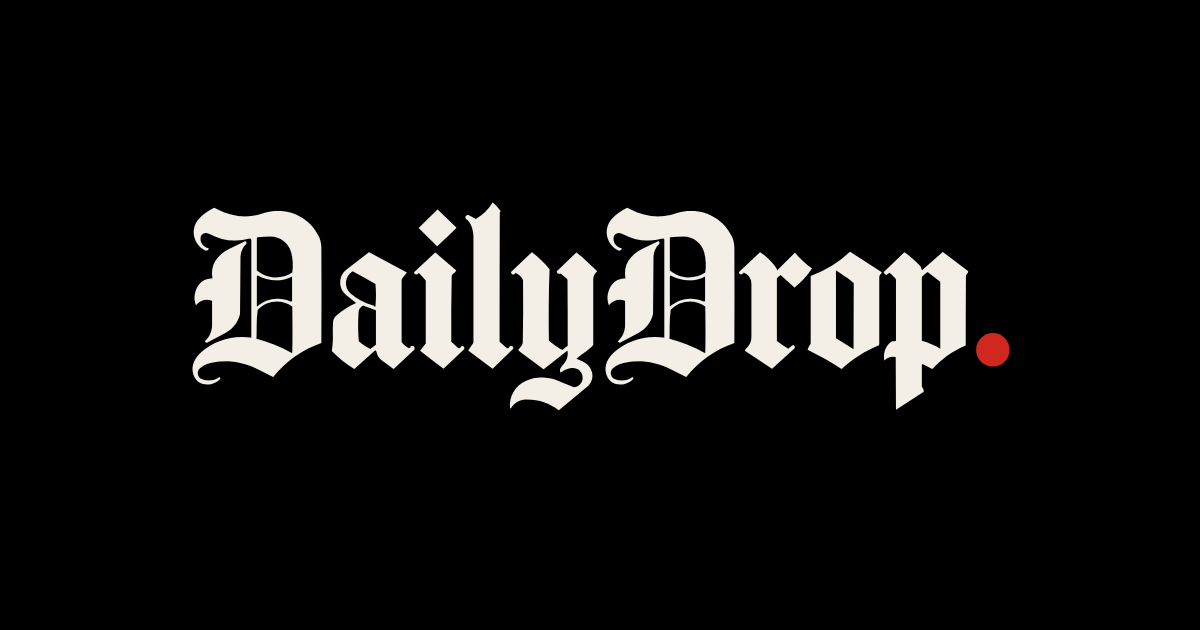
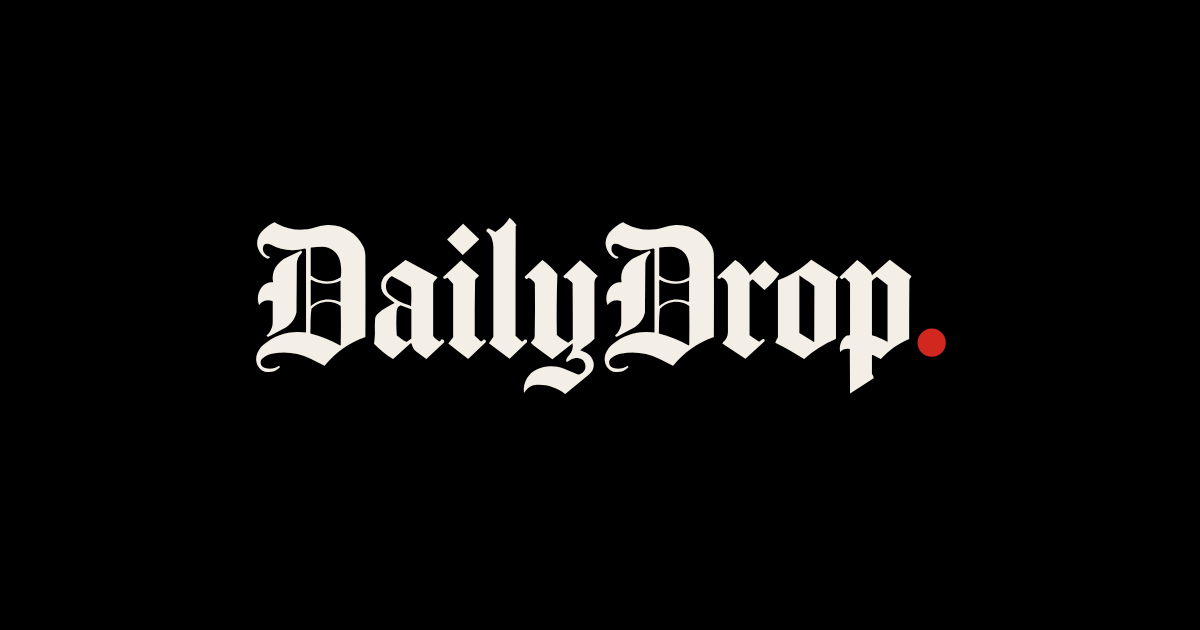
미리보기 이미지: 로고 폭 약 58%·가운데 띠 안, og:image 크기 태그(?v=5)
Claude-Session: https://claude.ai/code/session_01194J6eRjYk7y2N2oQRv7WX

Changed region(s): [[0.1542, 0.3317, 0.8633, 0.6635]]

diff --git a/site/build.js b/site/build.js
@@ -176,7 +176,7 @@ const TEXTSCALE = `<script>(function(){try{var m=localStorage.getItem('dd_theme'
 const PAPERBG = `<style>html{background:#ece4d8}body{min-height:100vh;min-height:100dvh}@media(prefers-color-scheme:dark){html:not([data-theme="light"]){background:#14130f}}html[data-theme="dark"]{background:#14130f}</style><link rel="preconnect" href="https://fonts.googleapis.com"><link rel="preconnect" href="https://fonts.gstatic.com" crossorigin><script>(function(){var done={};function pf(u){if(!u||u.indexOf("/")!==0)return;u=u.split("?")[0].split("#")[0];if(done[u])return;done[u]=1;var l=document.createElement("link");l.rel="prefetch";l.href=u;document.head.appendChild(l)}document.addEventListener("toggle",function(e){var d=e.target;if(d&&d.open&&d.classList&&(d.classList.contains("dd-ed")||d.classList.contains("dd-lang")))d.querySelectorAll("a[href]").forEach(function(a){pf(a.getAttribute("href"))})},true);document.addEventListener("pointerdown",function(e){var a=e.target.closest&&e.target.closest(".dd-ed a[href],.dd-lang a[href],.dd-nav a[href]");if(a)pf(a.getAttribute("href"))},true)})();</script>`;
 const NOBLOCK = h => String(h).replace(/<link rel="stylesheet" href="(https:\/\/fonts\.googleapis\.com\/[^"]+)">/g, (m, u) => `<link rel="preload" as="style" href="${u}"><link rel="stylesheet" href="${u}" media="print" onload="this.media='all'"><noscript><link rel="stylesheet" href="${u}"></noscript>`).replace(/<meta charset="utf-8">/i, m => m + PAPERBG);
 { const _w = fs.writeFileSync; fs.writeFileSync = (f, d, ...r) => _w(f, typeof d === 'string' && /\.html$/.test(String(f)) && !d.includes('rel="preconnect" href="https://fonts.googleapis.com"') ? NOBLOCK(d) : d, ...r); }
-const HEAD = (title, desc, pathname = '/', lang = 'ko') => `<!doctype html><html lang="${lang}"${T(lang, 'dir') === 'rtl' ? ' dir="rtl"' : ''}><head><meta charset="utf-8">${TEXTSCALE}<meta name="viewport" content="width=device-width,initial-scale=1,viewport-fit=cover"><title>${esc(title)}</title><meta name="description" content="${esc(desc)}"><link rel="canonical" href="${SITE}${pathname}"><meta property="og:url" content="${SITE}${pathname}"><meta property="og:type" content="article"><meta property="og:title" content="${esc(title)}"><meta property="og:description" content="${esc(desc)}"><meta property="og:site_name" content="${lang === 'ko' ? '데일리드롭' : 'DailyDrop'}"><meta property="og:image" content="${SITE}/og.png?v=4"><meta name="twitter:card" content="summary_large_image"><link rel="icon" href="/brand/favicon-32.png?v=2" sizes="32x32" type="image/png"><link rel="icon" href="/brand/favicon-16.png?v=2" sizes="16x16" type="image/png"><link rel="apple-touch-icon" href="/brand/apple-touch-icon.png?v=2"><meta name="apple-mobile-web-app-title" content="DailyDrop"><meta name="application-name" content="DailyDrop"><link rel="manifest" href="/manifest.webmanifest"><meta name="theme-color" content="#ece4d8"><meta name="naver-site-verification" content="9fbffe5f4e2d380695044c9f778361f1cd05d958"><meta name="google-adsense-account" content="ca-pub-3262200458718888">${NAVCSS}${ACC.NAV_CSS}${XFONTS(lang)}${T(lang, 'dir') === 'rtl' ? RTLCSS : ''}</head><body${lang !== 'ko' ? ` data-filler="${esc(T(lang, 'filler'))}"` : ''}>`;
+const HEAD = (title, desc, pathname = '/', lang = 'ko') => `<!doctype html><html lang="${lang}"${T(lang, 'dir') === 'rtl' ? ' dir="rtl"' : ''}><head><meta charset="utf-8">${TEXTSCALE}<meta name="viewport" content="width=device-width,initial-scale=1,viewport-fit=cover"><title>${esc(title)}</title><meta name="description" content="${esc(desc)}"><link rel="canonical" href="${SITE}${pathname}"><meta property="og:url" content="${SITE}${pathname}"><meta property="og:type" content="article"><meta property="og:title" content="${esc(title)}"><meta property="og:description" content="${esc(desc)}"><meta property="og:site_name" content="${lang === 'ko' ? '데일리드롭' : 'DailyDrop'}"><meta property="og:image" content="${SITE}/og.png?v=5"><meta property="og:image:width" content="1200"><meta property="og:image:height" content="630"><meta name="twitter:card" content="summary_large_image"><link rel="icon" href="/brand/favicon-32.png?v=2" sizes="32x32" type="image/png"><link rel="icon" href="/brand/favicon-16.png?v=2" sizes="16x16" type="image/png"><link rel="apple-touch-icon" href="/brand/apple-touch-icon.png?v=2"><meta name="apple-mobile-web-app-title" content="DailyDrop"><meta name="application-name" content="DailyDrop"><link rel="manifest" href="/manifest.webmanifest"><meta name="theme-color" content="#ece4d8"><meta name="naver-site-verification" content="9fbffe5f4e2d380695044c9f778361f1cd05d958"><meta name="google-adsense-account" content="ca-pub-3262200458718888">${NAVCSS}${ACC.NAV_CSS}${XFONTS(lang)}${T(lang, 'dir') === 'rtl' ? RTLCSS : ''}</head><body${lang !== 'ko' ? ` data-filler="${esc(T(lang, 'filler'))}"` : ''}>`;
 // 한·영·일 외 문자권 페이지만 그 문자의 Noto 글꼴을 더 불러온다(ko/en/ja 페이지는 그대로)
 const XFONT = { hi: ['Noto Serif Devanagari', 'Noto Sans Devanagari'], th: ['Noto Serif Thai', 'Noto Sans Thai'], ar: ['Noto Naskh Arabic', 'Noto Sans Arabic'], he: ['Noto Serif Hebrew', 'Noto Sans Hebrew'], 'zh-TW': ['Noto Serif TC', 'Noto Sans TC'] };
 const XFONTS = l => { const f = XFONT[l]; return f ? `<link rel="stylesheet" href="https://fonts.googleapis.com/css2?${f.map(n => `family=${n.replace(/ /g, '+')}:wght@400;700`).join('&')}&display=swap"><style>html:root{--serif:"Noto Serif","${f[0]}",Georgia,serif;--sans:"Noto Sans","${f[1]}",sans-serif}html body,.dd-nav{font-family:var(--serif)}</style>` : ''; };
@@ -250,7 +250,7 @@ const MASTCSS = (() => { const L = fs.readFileSync(path.join(__dirname, 'nyt.css
 const EARLY_MAST = h => h.replace('<div class="mast">', MASTCSS + '<div class="mast">');
 // 검색엔진: 호 페이지마다 (1) 원문·번역본끼리 hreflang 상호 연결 (2) 뉴스 기사 구조화 데이터(JSON-LD) (3) 그 호 핵심 3건을 설명문으로.
 const SEO_ALT = variants => variants.map(([l, u]) => `<link rel="alternate" hreflang="${l}" href="${SITE}${u}">`).join('') + `<link rel="alternate" hreflang="x-default" href="${SITE}${variants[0][1]}">`;
-const SEO_LD = (e, title, desc, url, lang) => '<script type="application/ld+json">' + JSON.stringify({ '@context': 'https://schema.org', '@type': 'NewsArticle', headline: title.slice(0, 110), description: desc, url: SITE + url, mainEntityOfPage: SITE + url, inLanguage: lang, datePublished: e.publish_at || e.date, dateModified: e.publish_at || e.date, image: [SITE + '/og.png?v=4'], isAccessibleForFree: true, author: { '@type': 'Organization', name: 'DailyDrop', url: SITE + '/about/' }, publisher: { '@type': 'NewsMediaOrganization', name: 'DailyDrop', url: SITE + '/', logo: { '@type': 'ImageObject', url: SITE + '/brand/icon-512.png', width: 512, height: 512 } } }).replace(/</g, '\\u003c') + '</script>';
+const SEO_LD = (e, title, desc, url, lang) => '<script type="application/ld+json">' + JSON.stringify({ '@context': 'https://schema.org', '@type': 'NewsArticle', headline: title.slice(0, 110), description: desc, url: SITE + url, mainEntityOfPage: SITE + url, inLanguage: lang, datePublished: e.publish_at || e.date, dateModified: e.publish_at || e.date, image: [SITE + '/og.png?v=5'], isAccessibleForFree: true, author: { '@type': 'Organization', name: 'DailyDrop', url: SITE + '/about/' }, publisher: { '@type': 'NewsMediaOrganization', name: 'DailyDrop', url: SITE + '/', logo: { '@type': 'ImageObject', url: SITE + '/brand/icon-512.png', width: 512, height: 512 } } }).replace(/</g, '\\u003c') + '</script>';
 const SEO_HEAD = (page, extra) => page.replace('</head>', extra + '</head>');
 // 나라 1면(최신 호 사본)에는 날짜 페이지용 hreflang 을 남기지 않는다(대표 주소가 다르므로)
 const NOALT = h => h.replace(/<link rel="alternate" hreflang="[^"]*" href="[^"]*">/g, '');
@@ -325,7 +325,7 @@ const ARTS = (h, e, l, base, edUrl, X) => { const m = h.match(/const A = (\{[\s\
   for (const [id0, a] of Object.entries(A)) { if (!a || typeof a !== 'object' || !a.title) continue; const id = id0.replace(/[^\w-]/g, ''); const t = plain(a.title); const desc = plain(a.what).slice(0, 160);
     const url = `${base}a/${id}/`; const paras = [a.what, a.why, a.me, a.a, a.b, a.say].map(plain).filter(Boolean);
     const links = ((X && X.src && X.src[id0]) || []).filter(s => s && /^https?:\/\//.test(s.u || '')).map(s => `<li><a href="${esc(s.u)}" rel="noopener nofollow" target="_blank">${esc(s.n || s.u)}</a></li>`).join('');
-    const ld = '<script type="application/ld+json">' + JSON.stringify({ '@context': 'https://schema.org', '@type': 'NewsArticle', headline: t.slice(0, 110), description: desc, url: SITE + url, mainEntityOfPage: SITE + url, inLanguage: l, datePublished: when, dateModified: when, image: [SITE + '/og.png?v=4'], isAccessibleForFree: true, isPartOf: { '@type': 'CreativeWork', name: edT, url: SITE + edUrl }, author: { '@type': 'Organization', name: 'DailyDrop', url: SITE + '/about/' }, publisher: { '@type': 'NewsMediaOrganization', name: 'DailyDrop', url: SITE + '/', logo: { '@type': 'ImageObject', url: SITE + '/brand/icon-512.png', width: 512, height: 512 } } }).replace(/</g, '\\u003c') + '</script>';
+    const ld = '<script type="application/ld+json">' + JSON.stringify({ '@context': 'https://schema.org', '@type': 'NewsArticle', headline: t.slice(0, 110), description: desc, url: SITE + url, mainEntityOfPage: SITE + url, inLanguage: l, datePublished: when, dateModified: when, image: [SITE + '/og.png?v=5'], isAccessibleForFree: true, isPartOf: { '@type': 'CreativeWork', name: edT, url: SITE + edUrl }, author: { '@type': 'Organization', name: 'DailyDrop', url: SITE + '/about/' }, publisher: { '@type': 'NewsMediaOrganization', name: 'DailyDrop', url: SITE + '/', logo: { '@type': 'ImageObject', url: SITE + '/brand/icon-512.png', width: 512, height: 512 } } }).replace(/</g, '\\u003c') + '</script>';
     const css = `<style>main{max-width:680px}.ak{font:600 12px/1.4 var(--sans,system-ui);letter-spacing:.04em;color:var(--mute);margin:18px 0 6px}.at{font-size:clamp(24px,5.4vw,34px);line-height:1.25;margin:0 0 14px;text-wrap:balance}.at:lang(ko){word-break:keep-all}main p{text-align:justify;hyphens:auto;line-height:1.75}.ae{color:var(--mute);font-size:13px;margin-top:22px}.as{font-size:13px;padding-left:18px}.as a{color:inherit}</style>`;
     const body = `<main><div class="ak">${esc(plain(a.kick))}</div><h1 class="at">${esc(t)}</h1>${paras.map(p => `<p>${esc(p)}</p>`).join('')}${links ? `<ul class="as">${links}</ul>` : ''}<p class="ae">${esc(edT)}</p><p><a class="btn" href="${edUrl}#${id}">${esc(read)}</a></p></main>`;
     const page = SEO_HEAD(HEAD(`${t} · DailyDrop`, desc, url, l) + FONTS + BASELINK() + css + NAV('/' + R.prefix, r) + body + JUSTIFY.replace("var SEL='", "var SEL='main p:not(.ae),") + '</body></html>', ld);
